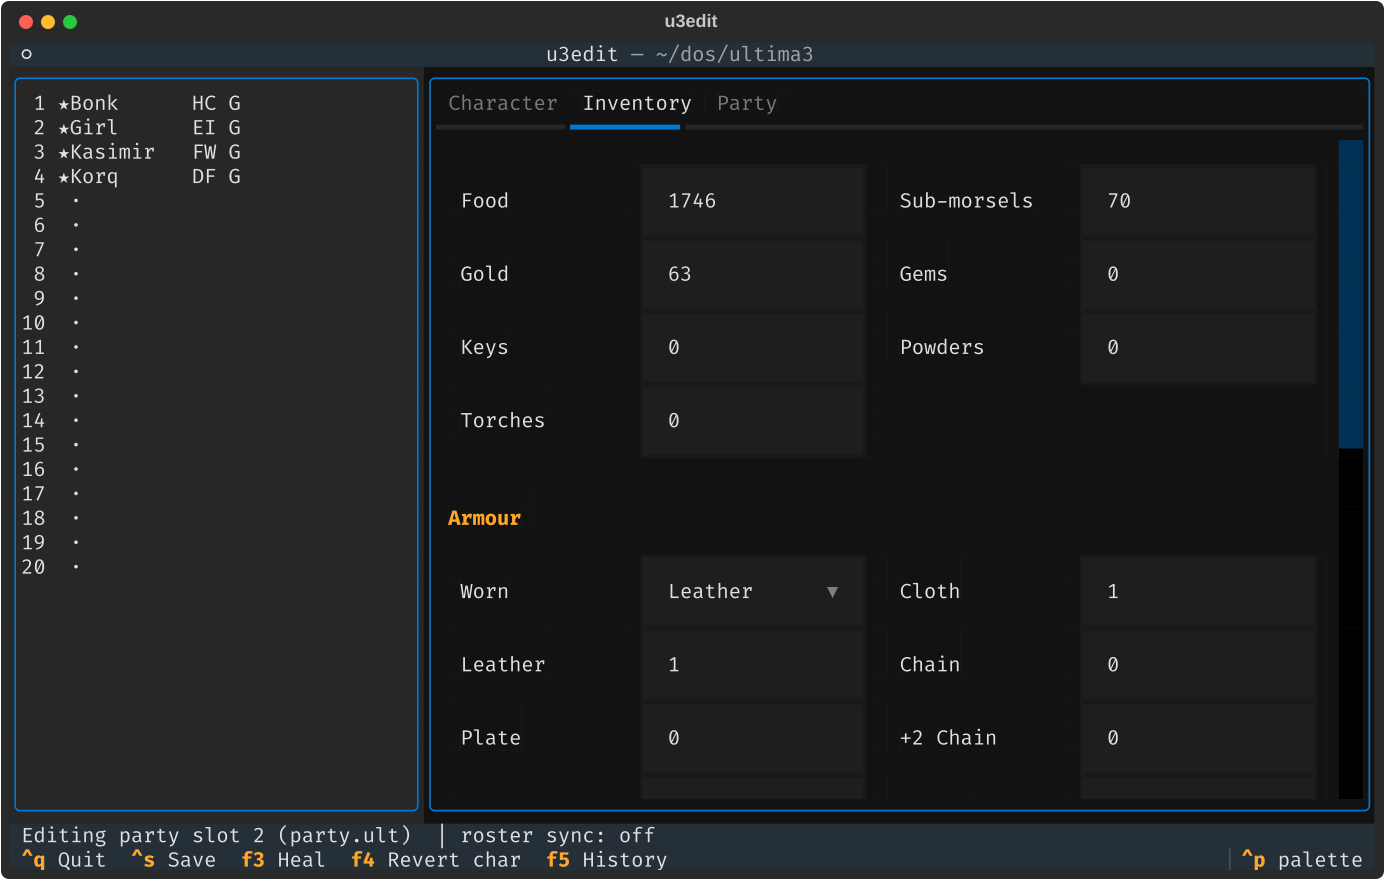
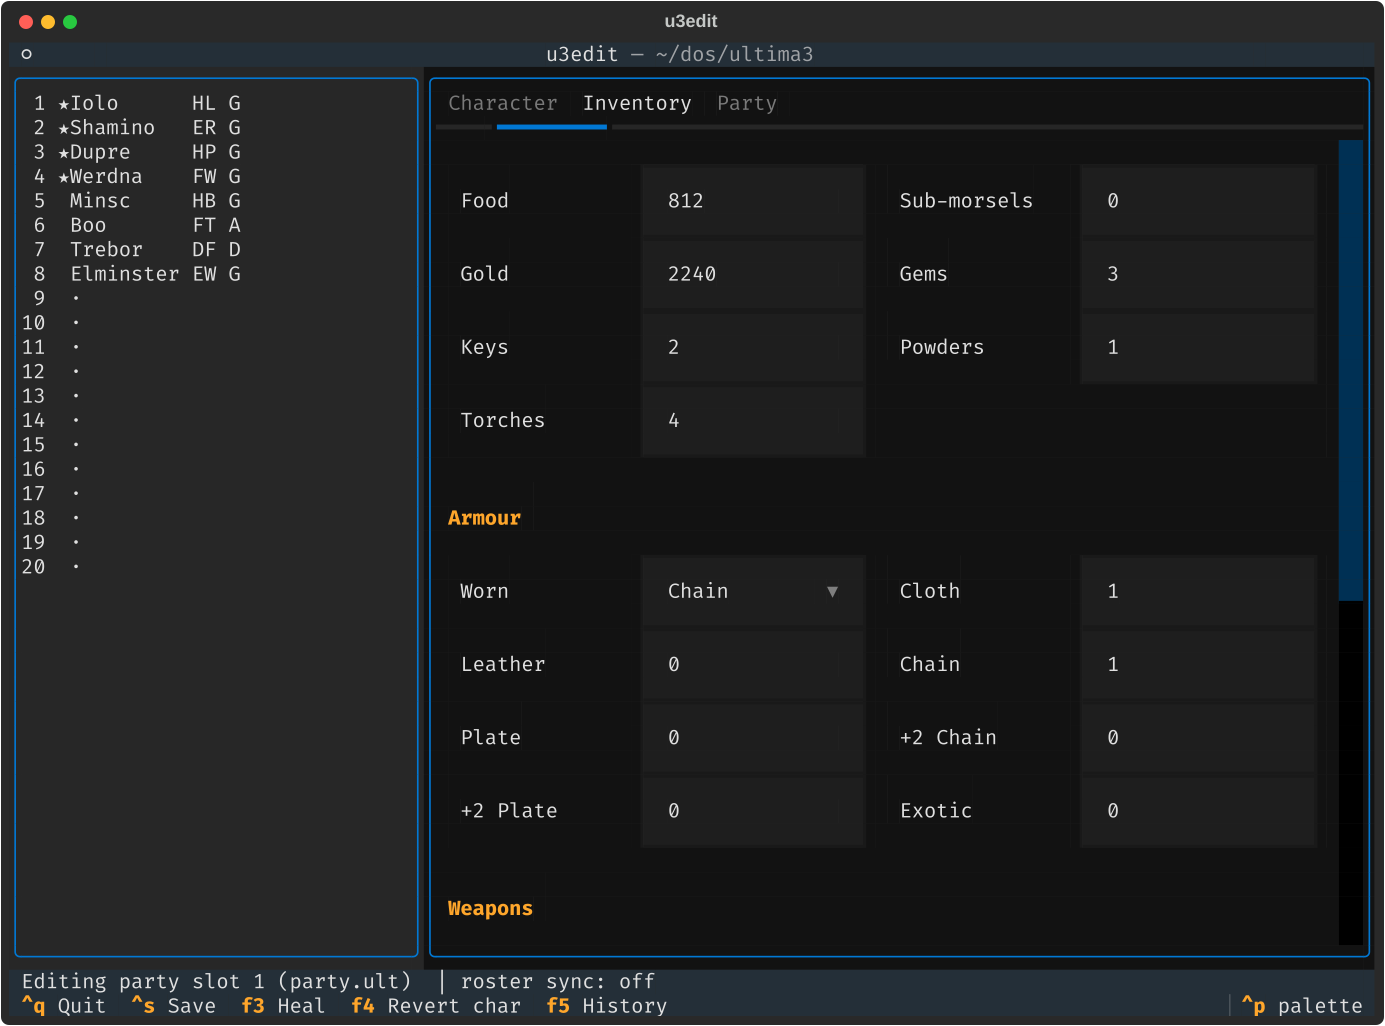
Demo party (Iolo, Shamino, Dupre, Werdna & co) for README screenshots, reproducible screenshot script

diff --git a/scripts/make_demo.py b/scripts/make_demo.py
@@ -1,0 +1,68 @@
+"""Build the demo save in tests/fixtures/demo (used for README screenshots).
+
+A party of CRPG celebrities, built on top of a real DOS save so all
+unknown bytes are authentic.
+"""
+
+from pathlib import Path
+
+from u3edit.format import (
+    ARMOR, PARTY_SLOTS, RECORD_SIZE, ROSTER_SLOTS, WEAPONS, SaveGame,
+)
+
+ROOT = Path(__file__).resolve().parent.parent
+SRC = ROOT / "tests/fixtures/played"
+DST = ROOT / "tests/fixtures/demo"
+
+# name, race, class, gender, status, str dex int wis, mp, hp, maxhp, exp,
+# food, gold, gems, keys, powders, torches, marks, worn armour, readied weapon
+CAST = [
+    ("Iolo",      "H", "L", "M", "P", (45, 60, 40, 35), 20, 87, 412, 1873, 812, 2240, 3, 2, 1, 4, 0b10000101, 3, 9),
+    ("Shamino",   "E", "R", "M", "G", (40, 75, 50, 45), 25, 545, 545, 2214, 905, 1312, 5, 3, 2, 6, 0b10000111, 5, 10),
+    ("Dupre",     "H", "P", "M", "G", (75, 45, 25, 60), 30, 790, 790, 2511, 677, 851, 2, 1, 0, 2, 0b10010101, 6, 14),
+    ("Werdna",    "F", "W", "M", "G", (25, 50, 99, 30), 99, 302, 330, 3150, 1203, 9999, 9, 4, 5, 8, 0b11111111, 1, 1),
+    ("Minsc",     "H", "B", "M", "G", (75, 50, 15, 15), 0, 680, 680, 980, 340, 120, 0, 0, 0, 3, 0b00000000, 4, 7),
+    ("Boo",       "F", "T", "O", "A", (10, 70, 30, 20), 0, 0, 120, 210, 25, 3, 0, 1, 0, 0, 0b00000000, 1, 1),
+    ("Trebor",    "D", "F", "M", "D", (75, 40, 20, 20), 0, 0, 640, 1420, 210, 450, 1, 0, 0, 1, 0b10000000, 4, 6),
+    ("Elminster", "E", "W", "M", "G", (20, 55, 95, 40), 75, 260, 260, 1777, 500, 3333, 6, 2, 3, 5, 0b00000100, 1, 1),
+]
+PARTY = [1, 2, 3, 4]  # roster numbers of the active party
+
+
+def build() -> None:
+    save = SaveGame(SRC)
+    template = save.party_char(0).raw
+    save.roster[:] = bytes(RECORD_SIZE * ROSTER_SLOTS)
+    for slot, (name, race, klass, gender, status, stats, mp, hp, maxhp, exp, food, gold,
+               gems, keys, powders, torches, marks, armor, weapon) in enumerate(CAST):
+        c = save.roster_char(slot)
+        save.roster[slot * RECORD_SIZE : (slot + 1) * RECORD_SIZE] = template
+        c.name = name
+        c.race, c.klass, c.gender, c.status = race, klass, gender, status
+        for key, value in zip(("str", "dex", "int", "wis"), stats):
+            c.set(key, value)
+        for key, value in (("mp", mp), ("hp", hp), ("maxhp", maxhp), ("exp", exp),
+                           ("food", food), ("submorsels", 0), ("gold", gold), ("gems", gems),
+                           ("keys", keys), ("powders", powders), ("torches", torches)):
+            c.set(key, value)
+        c.marks = marks
+        for i in range(1, len(ARMOR)):
+            c.set(f"armor{i}", 1 if i in (1, armor) else 0)
+        for i in range(1, len(WEAPONS)):
+            c.set(f"weapon{i}", 1 if i in (1, weapon) else 0)
+        c.armor, c.weapon = armor, weapon
+        c.in_party = slot + 1 in PARTY
+    save.party[0x0A : 0x0A + PARTY_SLOTS] = bytes(PARTY)
+    save.party[0x07] = len(PARTY)
+    for i, number in enumerate(PARTY):
+        base = 0x12 + i * RECORD_SIZE
+        save.party[base : base + RECORD_SIZE] = save.roster_char(number - 1).raw
+    save.moves = 31337
+    save.position = (42, 23)
+    DST.mkdir(exist_ok=True)
+    for name, data in save.files().items():
+        (DST / name).write_bytes(data)
+
+
+if __name__ == "__main__":
+    build()

diff --git a/scripts/screenshots.py b/scripts/screenshots.py
@@ -1,0 +1,84 @@
+"""Render the README screenshots from the demo save (needs inkscape for PNG).
+
+    uv run python scripts/screenshots.py
+"""
+
+import asyncio
+import shutil
+import subprocess
+import tempfile
+from pathlib import Path
+
+from textual.widgets import Checkbox, Input
+
+from u3edit.app import U3EditApp
+from u3edit.format import SaveGame
+
+ROOT = Path(__file__).resolve().parent.parent
+OUT = ROOT / "docs/screenshots"
+SHOWN_DIR = "~/dos/ultima3"
+
+
+async def scenario(game: Path) -> None:
+    app = U3EditApp(SaveGame(game))
+    async with app.run_test(size=(112, 40)) as pilot:
+        async def shot(name: str) -> None:
+            history = name == "history"
+            app.screen.sub_title = f"History: {SHOWN_DIR}/.u3edit-history" if history else SHOWN_DIR
+            await pilot.pause(0.3)
+            app.save_screenshot(str(OUT / f"{name}.svg"))
+
+        chars = app.query_one("#chars")
+        await pilot.pause()
+        # Dupre gets rich
+        chars.index = 2
+        await pilot.pause()
+        app.query_one("#num-gold", Input).value = "5000"
+        await pilot.pause()
+        await pilot.press("ctrl+s")
+        await pilot.pause()
+        # meanwhile the game saves
+        s = SaveGame(game)
+        s.moves, s.position = 31402, (43, 25)
+        s.save()
+        # cure Iolo and hand him the Mark of Sol
+        chars.index = 0
+        await pilot.pause()
+        app.action_heal()
+        await pilot.pause()
+        app.query_one("#mark-1", Checkbox).value = True
+        await pilot.pause()
+        await pilot.press("ctrl+s")
+        await pilot.pause(0.5)
+
+        await shot("character")
+        app.query_one("#editor").active = "tab-inv"
+        await shot("inventory")
+        app.query_one("#editor").active = "tab-party"
+        await shot("party")
+        app.query_one("#editor").active = "tab-char"
+        await pilot.press("ctrl+p")
+        await pilot.pause(0.3)
+        await pilot.press(*"sync")
+        await shot("palette")
+        await pilot.press("escape")
+        await pilot.pause()
+        await pilot.press("f5")
+        await shot("history")
+
+
+def main() -> None:
+    OUT.mkdir(parents=True, exist_ok=True)
+    with tempfile.TemporaryDirectory() as tmp:
+        game = Path(tmp) / "ultima3"
+        shutil.copytree(ROOT / "tests/fixtures/demo", game)
+        asyncio.run(scenario(game))
+    for svg in sorted(OUT.glob("*.svg")):
+        subprocess.run(["inkscape", str(svg), "-o", str(svg.with_suffix(".png"))],
+                       check=True, capture_output=True)
+        svg.unlink()
+        print(svg.with_suffix(".png").relative_to(ROOT))
+
+
+if __name__ == "__main__":
+    main()

diff --git a/src/u3edit/format.py b/src/u3edit/format.py
@@ -154,6 +154,10 @@ class Character:
     def in_party(self) -> bool:
         return self._get(0x10)[0] == 0xFF
 
+    @in_party.setter
+    def in_party(self, value: bool) -> None:
+        self._set(0x10, b"\xff" if value else b"\0")
+
     @property
     def marks(self) -> int:
         return self._get(0x0E)[0]

diff --git a/README.md b/README.md
@@ -36,8 +36,9 @@ and the history makes it safe:
   *"Changed outside u3edit"* before writing, and merges your edits on top of it field by
   field. Your moves, food and position from the game are kept, and your edits still apply.
 - **Readable change logs.** Every version lists exactly what changed:
-  `Korq (party 1): gold 113 → 4321`, `Girl (party 2): +Kings`,
-  `Party moves: 45295 → 45391`. You never have to diff hex dumps.
+  `Iolo (party 1): status Poisoned → Good, hit points 87 → 412, +Sol`,
+  `Dupre (party 3): gold 851 → 5000`, `Party moves: 31337 → 31402`.
+  You never have to diff hex dumps.
 - **Restore any version** with `F5` → select → `r` (or `Enter`). The restore is itself
   recorded as a new version, so even a restore can be undone.
 - **No lock-in.** The versions are plain tarballs: `tar -xjf 0003-*.tar.bz2` gets your files
@@ -138,10 +139,16 @@ Moons: `SOSARIA.ULT` offset `0x1224` (left/right phase 0-7).
 Sources: [Ultima Codex: Ultima III internal formats](https://wiki.ultimacodex.com/wiki/Ultima_III_internal_formats),
 verified against real DOS saves (`tests/fixtures`).
 
+The screenshots show the demo party from `tests/fixtures/demo`: Iolo, Shamino, Dupre and
+Werdna adventuring together while Minsc waits in the roster, Elminster minds his own
+business, Trebor is dead and Boo, sadly, is ashes.
+
 ## Development
 
 ```sh
 uv run pytest
+uv run python scripts/make_demo.py     # rebuild the demo save
+uv run python scripts/screenshots.py   # re-render docs/screenshots (needs inkscape)
 ```
 
 The tests include headless TUI runs (edit → save → history → restore, plus the case where
